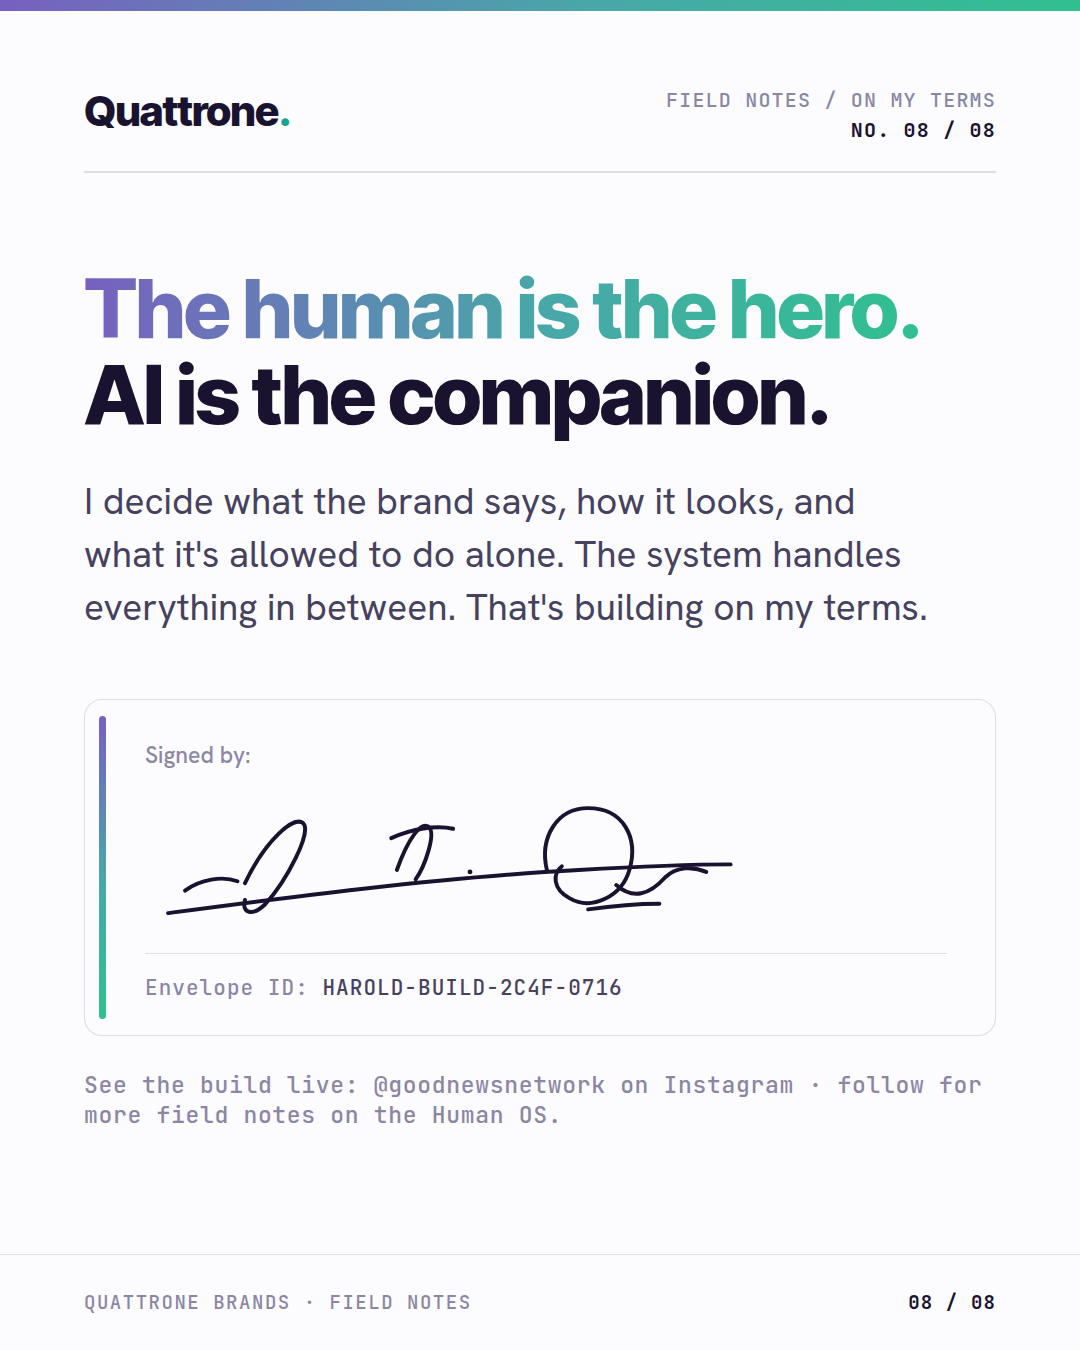
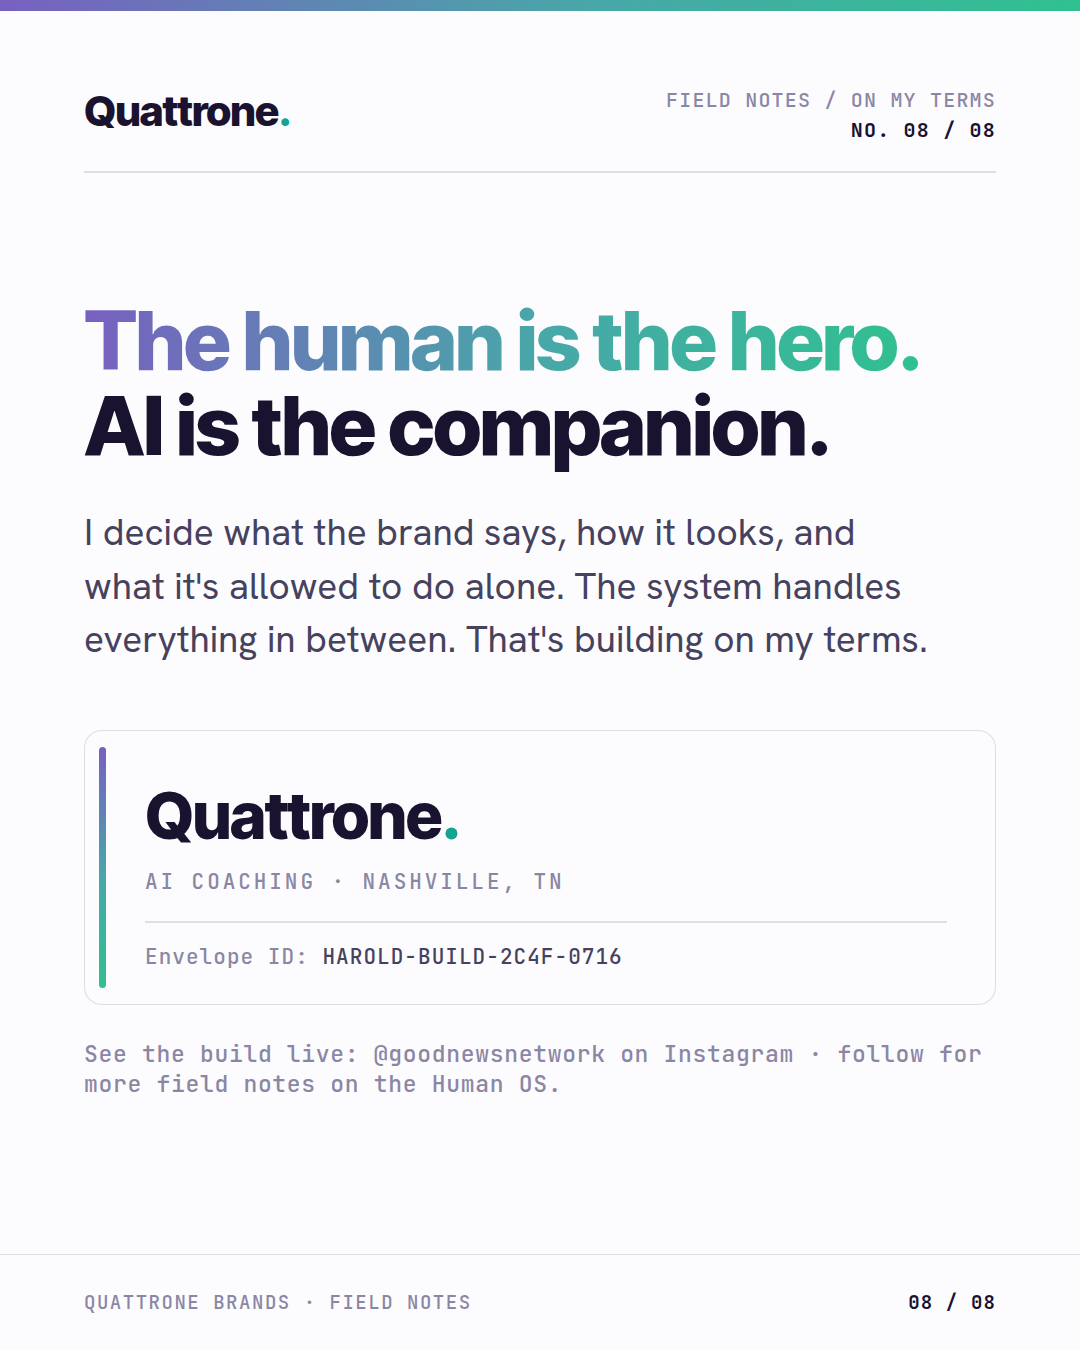
Case study: replace placeholder signature with the default clean-wordmark sign-off
A drawn signature was wrong for a sign-off — removed. Close card now uses the
brand's default wordmark sign-off (Quattrone. / AI Coaching · Nashville, TN)
until Joe's real signature asset lands.

Claude-Session: https://claude.ai/code/session_01C1xT5CvrgDqA13F8bsbkV1

diff --git a/case-study/carousel/harold-carousel.html b/case-study/carousel/harold-carousel.html
@@ -243,24 +243,11 @@ body{background:#33313a;}
       <!-- signed-by ink card (QB sign-off component) -->
       <div class="signcard" style="margin-top:64px;">
         <div class="inkbar"></div>
-        <div class="slab">Signed by:</div>
-        <div class="sigwrap">
-          <!-- PLACEHOLDER signature artwork — replace this <svg> with Joe's real signature asset (PNG/SVG) -->
-          <svg width="620" height="150" viewBox="0 0 640 160" fill="none" xmlns="http://www.w3.org/2000/svg">
-            <g stroke="#1A1330" stroke-width="4.2" stroke-linecap="round" fill="none">
-              <path d="M32 118 C 48 106, 72 102, 88 108"/>
-              <path d="M96 110 C 118 64, 148 38, 158 46 C 168 55, 140 108, 118 132 C 104 146, 92 142, 96 128"/>
-              <path d="M14 142 C 120 128, 300 104, 452 96 C 520 92, 578 90, 614 90"/>
-              <path d="M258 96 C 270 62, 284 44, 292 50 C 300 57, 288 92, 278 106"/>
-              <path d="M252 62 C 274 52, 300 48, 318 52"/>
-              <circle cx="336" cy="98" r="2.6" fill="#1A1330" stroke="none"/>
-              <path d="M418 96 C 410 62, 428 30, 462 30 C 500 30, 516 62, 506 96 C 498 124, 466 140, 442 126 C 424 116, 424 100, 434 92"/>
-              <path d="M492 112 C 510 128, 528 122, 544 104 C 556 92, 574 92, 588 98"/>
-              <path d="M462 138 C 490 134, 516 132, 538 132"/>
-            </g>
-          </svg>
-        </div>
-        <div class="shair"></div>
+        <!-- default sign-off: clean wordmark. Swap this block for the signed-by ink
+             version ("Signed by:" + Joe's real signature asset) when the asset lands. -->
+        <div class="wm" style="font-size:64px;margin-top:6px;">Quattrone<i>.</i></div>
+        <div style="font-family:var(--mono);font-weight:500;font-size:21px;letter-spacing:.14em;color:var(--muted);text-transform:uppercase;margin-top:14px;">AI Coaching · Nashville, TN</div>
+        <div class="shair" style="margin-top:26px;"></div>
         <div class="eid">Envelope ID: <b>HAROLD-BUILD-2C4F-0716</b></div>
       </div>
       <div class="note" style="margin-top:34px;font-size:23px;">See the build live: @goodnewsnetwork on Instagram · follow for more field notes on the Human OS.</div>
